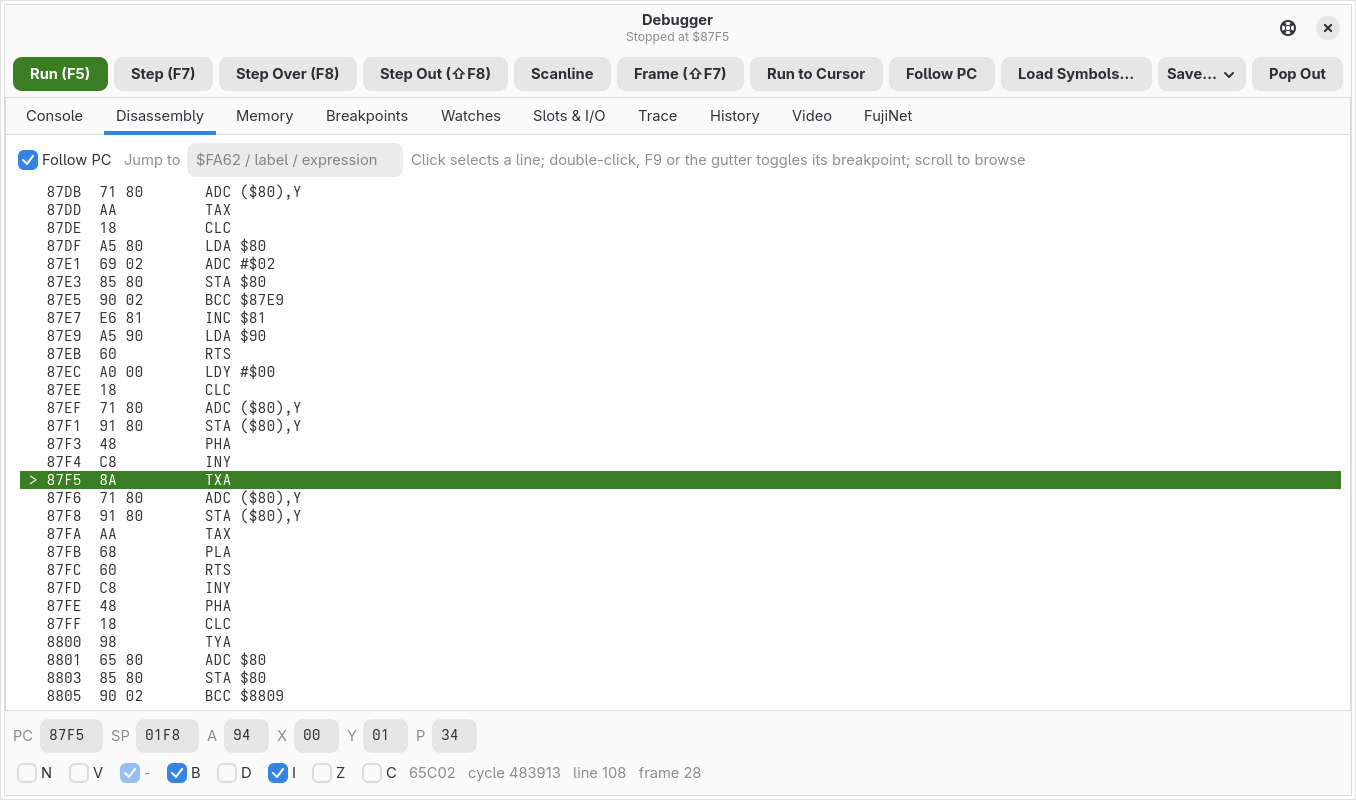
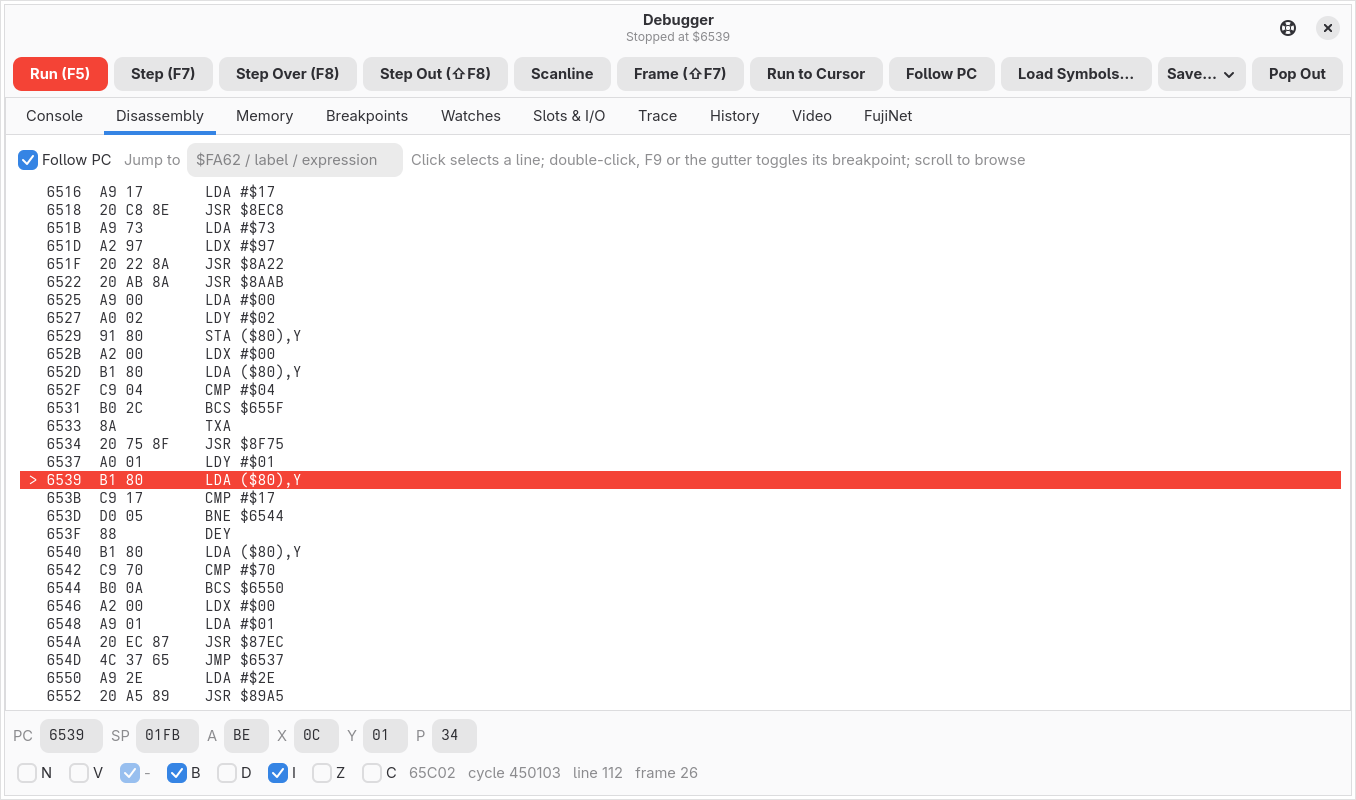
Release 0.10.0: new debugger, Video tab and memory banks
Folds in the 0.9.0 notes (that tag never produced a release: macOS CI
failed on a timing check). New debugger with Console, Disassembly, Memory,
Breakpoints, Watches, Slots & I/O, Trace, History, Video and FujiNet tabs;
the Video tab decodes video memory through the soft switches with a
hover/pin inspector and a soft-switch table; the Memory tab shows main, aux,
language-card and ROM banks. Accent is the icon's red.

diff --git a/README.md b/README.md
@@ -133,10 +133,15 @@ cards, the memory map as the CPU sees it now, and the soft switches), Trace,
 History, Video and FujiNet. A registers strip under every tab edits A, X, Y,
 P, SP and PC. Read and write breakpoints see data accesses only: opcode and
 operand fetches, stack pushes and pulls, and indirect-pointer fetches are not
-watched. The Video tab decodes a text, lo-res or hi-res **page** — which is
-not the same as what the machine is displaying, and is the point: it shows
-the buffer a program is drawing into before it flips to it. **Pop Out**
-detaches the current tab into its own window.
+watched. The Video tab shows the **Screen** as displayed, or **Decoded** video
+memory (text 40/80, lo-res, double lo-res, hi-res, double hi-res, mixed, either
+page) either following the soft switches or a mode you choose, which shows the
+buffer a program is drawing into before it flips to it; hover a byte to see
+what it holds, click to pin it, double-click to break on writes to it. Its
+Switches table shows when each video soft switch last changed. The Memory tab's
+**Bank** chooser shows main RAM, aux RAM, the language-card banks and ROM
+without flipping soft switches (`aux:$0400` works in Go To and the console).
+**Pop Out** detaches the current tab into its own window.
 
 The debugger's **FujiNet** tab shows every SmartPort packet between the
 Apple II's card and FujiNet, both ways, with hex: each request, its reply
@@ -152,7 +157,9 @@ count.
 | `APPLE2_PACE_LOG=1` | once-per-second frame pacing: fps, frames behind, frames on vsync |
 | `APPLE2_ROM_DIR` | where a `WITH_APPLE_ROMS=OFF` build reads system ROMs |
 | `APPLE2_OPEN_DEBUGGER=1` | open the debugger window at launch |
-| `APPLE2_DEBUGGER_VIEW=N` | open the debugger on video page N (0 = text page 1, 4 = hi-res page 1) |
+| `APPLE2_DEBUGGER_VIEW=N` | open the Video tab on page N (0 = text page 1, 4 = hi-res page 1) |
+| `APPLE2_DEBUGGER_VIDEO_VIEW`, `_MODE`, `_PAGE`, `_OVERLAYS`, `_ZOOM`, `_SECTION` | Video tab capture hooks (`screen`/`decoded`, mode, page, overlay names, zoom, section) |
+| `APPLE2_VIDEO_PIN=x,y` | pin a point of the Video picture (zoomed picture pixels) on open |
 | `APPLE2_WATCH`, `APPLE2_WATCH_BREAK`, `APPLE2_MEM_GOTO`, `APPLE2_HISTORY`, `APPLE2_POPOUT` | debugger capture hooks: add a watch, break on its change, jump Memory, record history, pop the tab out |
 | `APPLE2_DEBUGGER_TAB` | open the debugger on a tab: a number, or the start of its name (`disassembly`, `memory`, `slots`, `video`, `fujinet`, ...) |
 | `FUJINET_LIB` | explicit path to `libfujinet.so`/`.dylib`/`.dll` |
